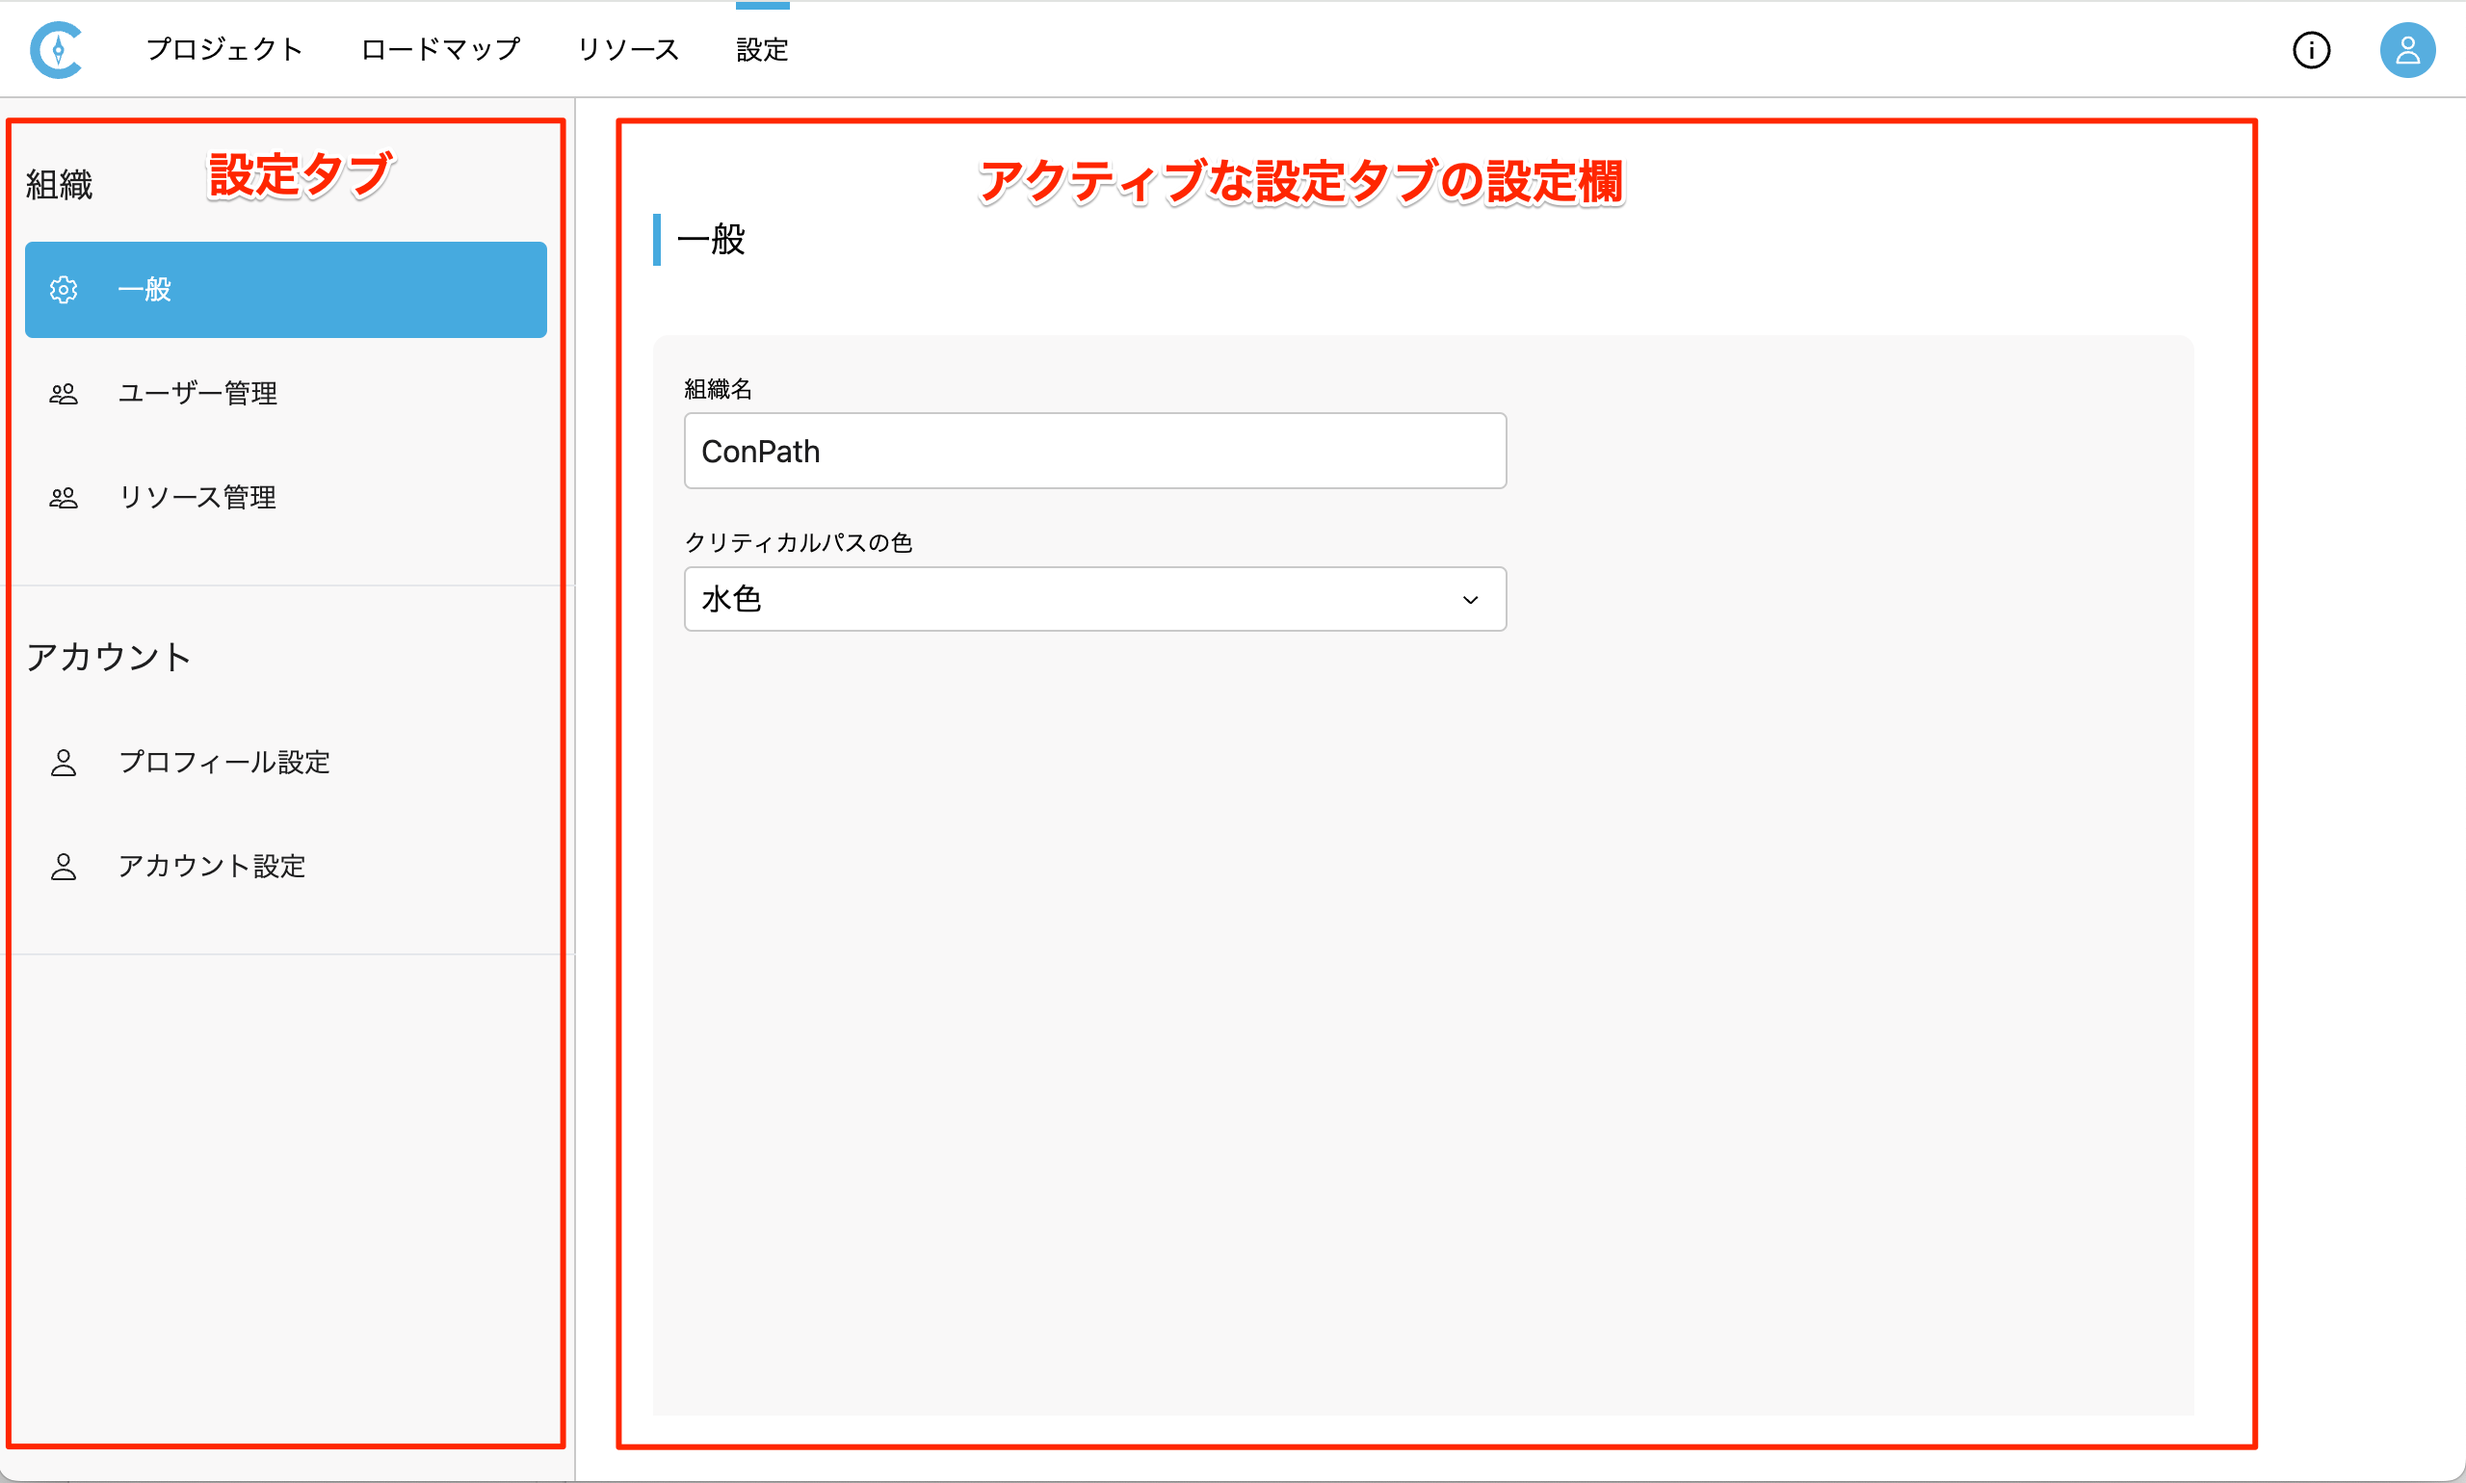
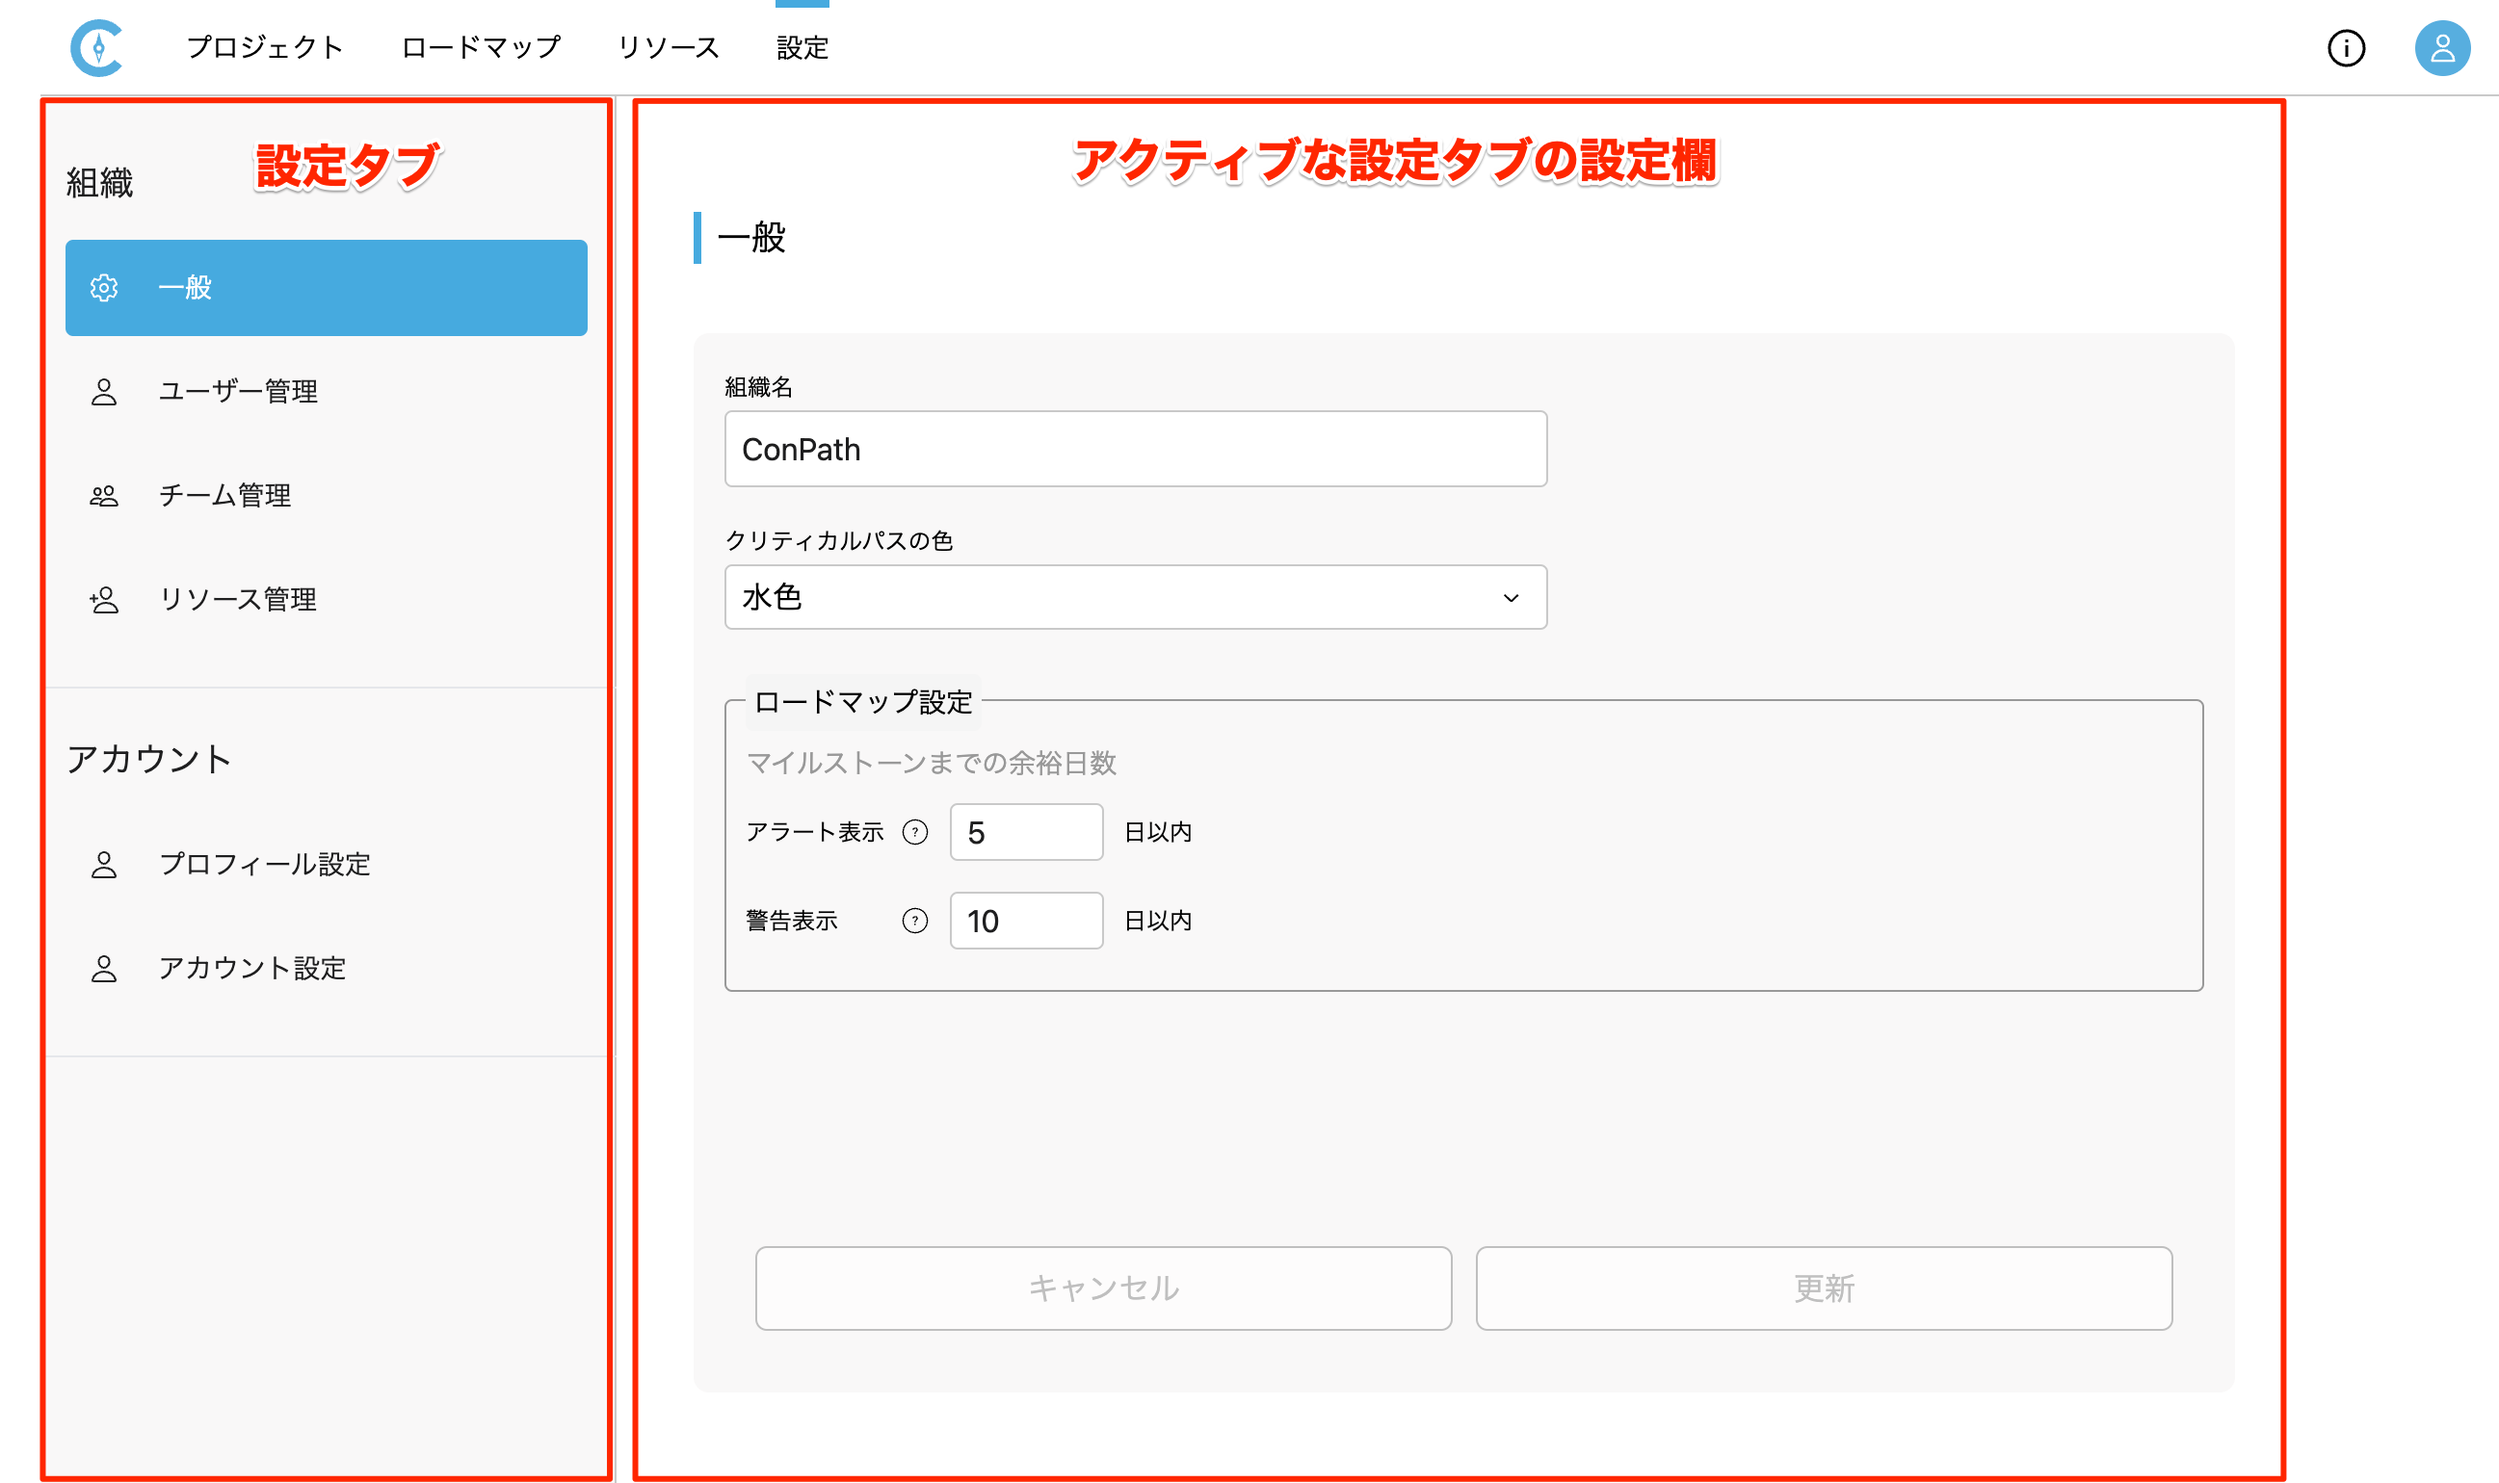
余裕日数の設定を追加

diff --git a/roadmap/progress/index.md b/roadmap/progress/index.md
@@ -60,11 +60,7 @@ has_children: false
 
 マイルストーンが設定されているタスクグループでは、<br>
 マイルストーンとその前のタスクの間で日数の余白がある場合、余裕日数としてチャートに表示されます。
-余裕日数は日数に応じて色が変化します。
 
-- 1日 ~ 4日: <span style="background:red; color:white;">赤色</span>
-- 5日 ~ 9日: <span style="background:yellow; color:black;">黄色</span>
-- 10日~ 灰色: <span style="background:gray; color:white">灰色</span>
 
 
   <table><tr><td>
@@ -76,5 +72,8 @@ has_children: false
     <img src="/assets/images/roadmap/progress/7.png" width="80%">
   </td></tr></table>
 
+  {: .note }
+  余裕日数は日数に応じて色が変化し、アラート(5日以内)が赤色、警告(10日以内)が黄色で表示されます。
+  日数は[設定>一般]({% link settings/general/index.md %}#マイルストーンまでの余裕日数を変更する)から変更できます。
 
 ---

diff --git a/settings/general/index.md b/settings/general/index.md
@@ -44,3 +44,16 @@ has_children: false
 {: .note }
 デフォルトは水色です。  
 この設定は組織の権限がオーナー、メンバーのみ可能です。
+
+## マイルストーンまでの余裕日数を変更する
+
+1. [設定>一般]を開きます。
+2. マイルストーンまでの余裕日数を設定し、[更新]ボタンをクリックします。
+
+   <table><tr><td>
+   <img src="/assets/images/settings/general/2.png" width="100%">
+   </td></tr></table>
+
+{: .note }
+デフォルトはアラート表示が5日以内、警告表示が10日以内となります。  
+この設定は組織の権限がオーナー、メンバーのみ可能です。
